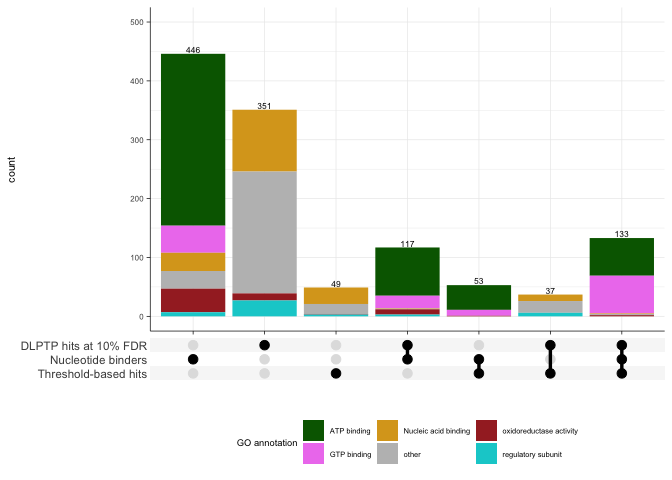
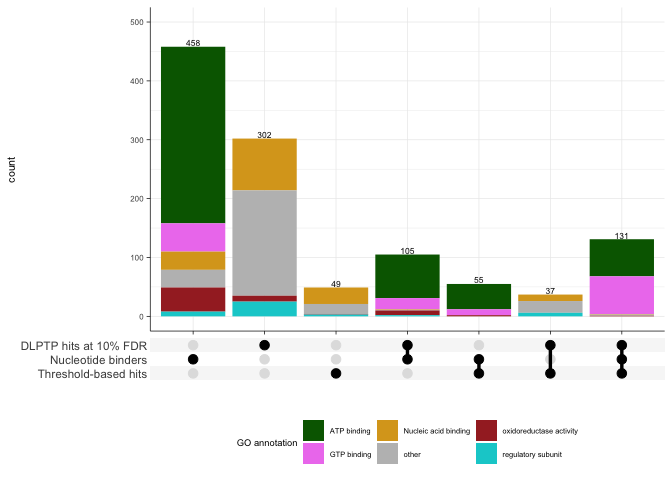
added updated gtp dataset analysis

diff --git a/GTP_Jurkat_gelfil_lysate_2DTPP/GTP_analysis.md b/GTP_Jurkat_gelfil_lysate_2DTPP/GTP_analysis.md
@@ -1,6 +1,6 @@
 Analysis of GTP dataset
 ================
-18 August, 2020
+29 September, 2020
 
 # Step-by-step walk through the anlysis
 
@@ -34,14 +34,14 @@ library(TPP2D)
 library(tidyverse)
 ```
 
-    ## ── Attaching packages ───────────────────────────────────────────── tidyverse 1.3.0 ──
+    ## ── Attaching packages ────────────────────────────── tidyverse 1.3.0 ──
 
     ## ✓ ggplot2 3.3.2     ✓ purrr   0.3.4
     ## ✓ tibble  3.0.1     ✓ stringr 1.4.0
     ## ✓ tidyr   1.1.0     ✓ forcats 0.5.0
     ## ✓ readr   1.3.1
 
-    ## ── Conflicts ──────────────────────────────────────────────── tidyverse_conflicts() ──
+    ## ── Conflicts ───────────────────────────────── tidyverse_conflicts() ──
     ## x dplyr::filter() masks stats::filter()
     ## x dplyr::lag()    masks stats::lag()
 
@@ -209,7 +209,7 @@ Compute *F*-statistics
 gtp_fstat_df <- computeFStatFromParams(gtp_params_df)
 ```
 
-Get \(B\) datasets expected under the null model and perform model
+Get \(B = 100\) datasets expected under the null model and perform model
 fitting and compute F statistics to obtain a null distribution for FDR
 calibration:
 
@@ -464,7 +464,7 @@ sessionInfo()
     ## other attached packages:
     ##  [1] ggupset_0.3.0   readxl_1.3.1    forcats_0.5.0   stringr_1.4.0  
     ##  [5] purrr_0.3.4     readr_1.3.1     tidyr_1.1.0     tibble_3.0.1   
-    ##  [9] ggplot2_3.3.2   tidyverse_1.3.0 TPP2D_1.5.7     dplyr_1.0.0    
+    ##  [9] ggplot2_3.3.2   tidyverse_1.3.0 TPP2D_1.5.10    dplyr_1.0.0    
     ## 
     ## loaded via a namespace (and not attached):
     ##  [1] Biobase_2.48.0       httr_1.4.1           bit64_0.9-7         
@@ -473,7 +473,7 @@ sessionInfo()
     ## [10] cellranger_1.1.0     yaml_2.2.1           pillar_1.4.4        
     ## [13] RSQLite_2.2.0        backports_1.1.7      lattice_0.20-41     
     ## [16] glue_1.4.1           limma_3.44.1         digest_0.6.25       
-    ## [19] rvest_0.3.5          colorspace_1.4-1     htmltools_0.4.0     
+    ## [19] rvest_0.3.5          colorspace_1.4-1     htmltools_0.5.0     
     ## [22] pkgconfig_2.0.3      broom_0.5.6          haven_2.3.1         
     ## [25] scales_1.1.1         openxlsx_4.1.5       BiocParallel_1.22.0 
     ## [28] farver_2.0.3         IRanges_2.22.2       generics_0.0.2      
